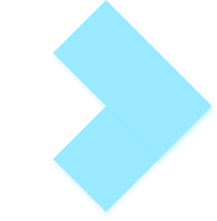
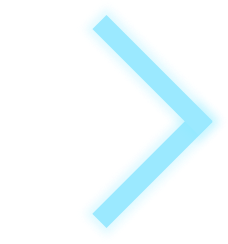
Project Card Animations

Changed region(s): [[0.2488, 0.0, 0.9954, 0.9774]]

diff --git a/src/components/ProjectCard.tsx b/src/components/ProjectCard.tsx
@@ -2,6 +2,7 @@ import { useNavigate } from "react-router-dom";
 
 import CardDoorTop from "../assets/CardDoorTop.png";
 import CardDoorBottom from "../assets/CardDoorBottom.png";
+import { motion } from "motion/react";
 
 interface Props {
   title: string;
@@ -13,7 +14,10 @@ interface Props {
 function ProjectCard({ title, image, desc, link }: Props) {
   const navigate = useNavigate();
   return (
-    <div style={{ position: "relative", width: "22rem", margin: "25px" }}>
+    <motion.div
+      style={{ position: "relative", width: "22rem", margin: "50px" }}
+      whileHover={{ scale: 1.1 }}
+    >
       <img
         src={CardDoorTop}
         style={{
@@ -47,14 +51,15 @@ function ProjectCard({ title, image, desc, link }: Props) {
         <div className="card-body">
           <h5 className="card-title">{title}</h5>
           <p className="card-text truncate">{desc}</p>
-          <a
+          <motion.a
+            whileHover={{ scale: 1.2 }}
             onClick={() => {
               navigate(link);
             }}
             className="btn btn-primary"
           >
             Go to Project
-          </a>
+          </motion.a>
         </div>
       </div>
       <img
@@ -68,7 +73,7 @@ function ProjectCard({ title, image, desc, link }: Props) {
           pointerEvents: "none",
         }}
       />
-    </div>
+    </motion.div>
   );
 }
 export default ProjectCard;

diff --git a/src/components/ProjectWindow.tsx b/src/components/ProjectWindow.tsx
@@ -71,7 +71,7 @@ function ProjectWindow() {
           </div>
           <div style={{ display: "flex", justifyContent: "center" }}>
             <motion.button
-              whileHover={{ scale: 1.1 }}
+              whileHover={{ scale: 1.2 }}
               whileTap={{ scale: 0.9 }}
               type="button"
               data-bs-target="#projectCarousel"
@@ -92,7 +92,7 @@ function ProjectWindow() {
               {activeIndex + 1}/{project.images.length}
             </p>
             <motion.button
-              whileHover={{ scale: 1.1 }}
+              whileHover={{ scale: 1.2 }}
               whileTap={{ scale: 0.9 }}
               type="button"
               data-bs-target="#projectCarousel"

diff --git a/src/styles/App.css b/src/styles/App.css
@@ -1,5 +1,5 @@
 html {
-  scroll-behavior: smooth !important;
+  scroll-behavior: smooth;
 }
 
 .nav-separator {

diff --git a/src/styles/App.scss b/src/styles/App.scss
@@ -22,7 +22,7 @@ $glow-color: #00B7FF;
 }
 
 html{
-    scroll-behavior: smooth !important;
+    scroll-behavior: smooth;
 }
 
 .nav-separator{